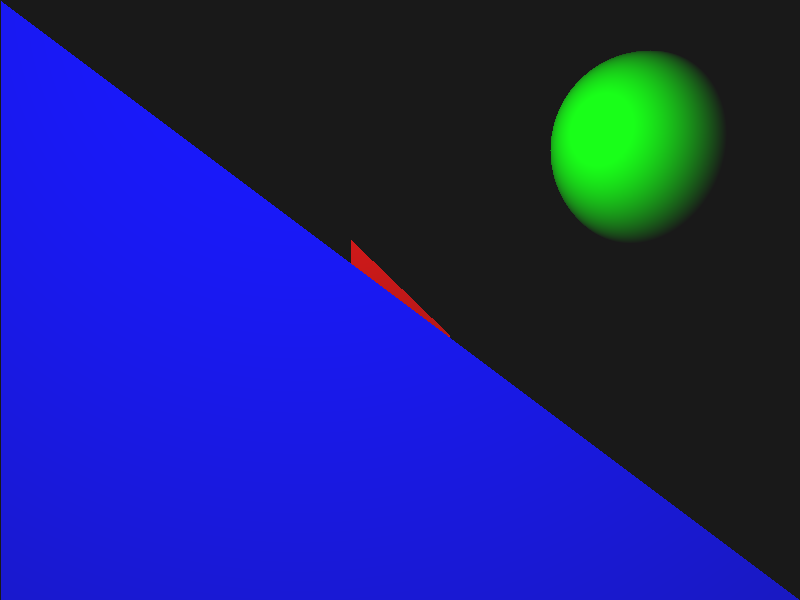
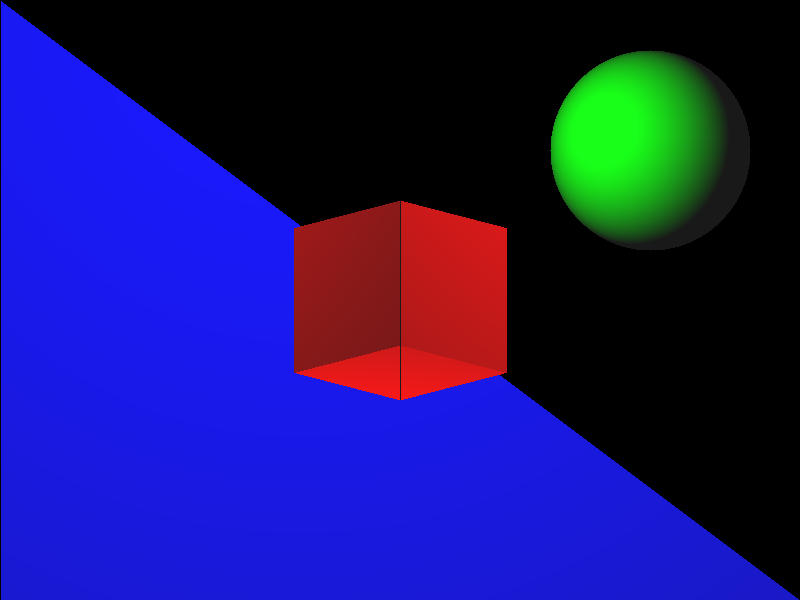
finish cube

diff --git a/Cube/Program.cs b/Cube/Program.cs
@@ -18,11 +18,11 @@ internal static class Program
         new(new Vector3D(0, 600, 600), new Vector3D(800, 600, 600), new Vector3D(0, 0, 600), RgbColor.Blue)
     ];
 
-    private static readonly Commons._3D.Cube Cube = new(new Vector3D(400, 300, 150), 100, RgbColor.Red);
+    private static readonly Commons._3D.Cube Cube = new(new Vector3D(400, 300, 150), 150, RgbColor.Red, 45);
 
     private static readonly LightSource LightSource =
         new(
-            new Vector3D(300, 0, -250),
+            new Vector3D(300, 0, -300),
             new RgbColor(1, 1, 0.9),
             1
         );
@@ -46,8 +46,18 @@ internal static class Program
 
                 var ray = new Ray(new Vector3D(x, y, 0), new Vector3D(0, 0, 1));
 
-                var (lambda, cubeNormalVector) = Cube.NextIntersection(ray);
-                if (lambda < double.MaxValue)
+                foreach (var plane in Planes)
+                {
+                    var currentLambda = plane.NextIntersection(ray);
+                    if (currentLambda < nearestLambda)
+                    {
+                        nearestLambda = currentLambda;
+                        color = ColorPlane(ray, plane);
+                    }
+                }
+
+                var (hasHit, lambda, cubeNormalVector) = Cube.NextIntersection(ray);
+                if (hasHit && lambda < nearestLambda)
                 {
                     var intersectionPoint = ray.Origin + ray.Direction * lambda;
                     var vectorToLightSource = (LightSource.Position - intersectionPoint).Normalize();
@@ -57,16 +67,6 @@ internal static class Program
                     color = Cube.Color * LightSource.Color *
                             scalarProductOfNormalizedPLaneToLightSource * LightSource.Intensity
                             + new RgbColor(0.1, 0.1, 0.1);
-                }
-
-                foreach (var plane in Planes)
-                {
-                    var currentLambda = plane.NextIntersection(ray);
-                    if (currentLambda < nearestLambda)
-                    {
-                        nearestLambda = currentLambda;
-                        color = ColorPlane(ray, plane);
-                    }
                 }
 
                 var sphereColor = ColorSphere(ray);

diff --git a/Commons/3D/Cube.cs b/Commons/3D/Cube.cs
@@ -19,8 +19,9 @@ public class Cube
     public RgbColor Color { get; }
     public double Rotation { get; }
 
-    public (double, Vector3D) NextIntersection(Ray ray)
+    public (bool hasHit, double lambda, Vector3D normalized) NextIntersection(Ray ray)
     {
+        var hasHit = false;
         var minLambda = double.MinValue;
         var normalizedVector = new Vector3D(0, 0, 0);
         foreach (var plane in cubeFaces)
@@ -28,12 +29,13 @@ public class Cube
             var lambda = plane.NextIntersection(ray);
             if (lambda < double.MaxValue && lambda > minLambda)
             {
+                hasHit = true;
                 minLambda = lambda;
                 normalizedVector = plane.NormalVector;
             }
         }
 
-        return (minLambda, normalizedVector);
+        return (hasHit, minLambda, normalizedVector);
     }
 
     private List<Plane> CreateCube()
@@ -47,7 +49,7 @@ public class Cube
             new(edges[0], edges[1], edges[2], Color),
             new(edges[0], edges[2], edges[3], Color),
             // Back
-            new(edges[4], edges[5], edges[6], Color),
+            new(edges[4], edges[6], edges[5], Color),
             new(edges[4], edges[7], edges[6], Color),
             // Left
             new(edges[0], edges[3], edges[7], Color),

diff --git a/Commons/3D/3DObject.cs b/Commons/3D/3DObject.cs
@@ -1,0 +1,6 @@
+namespace Commons._3D;
+
+public interface IObject3D
+{
+    (bool, double) NextIntersection(Ray ray);
+}
